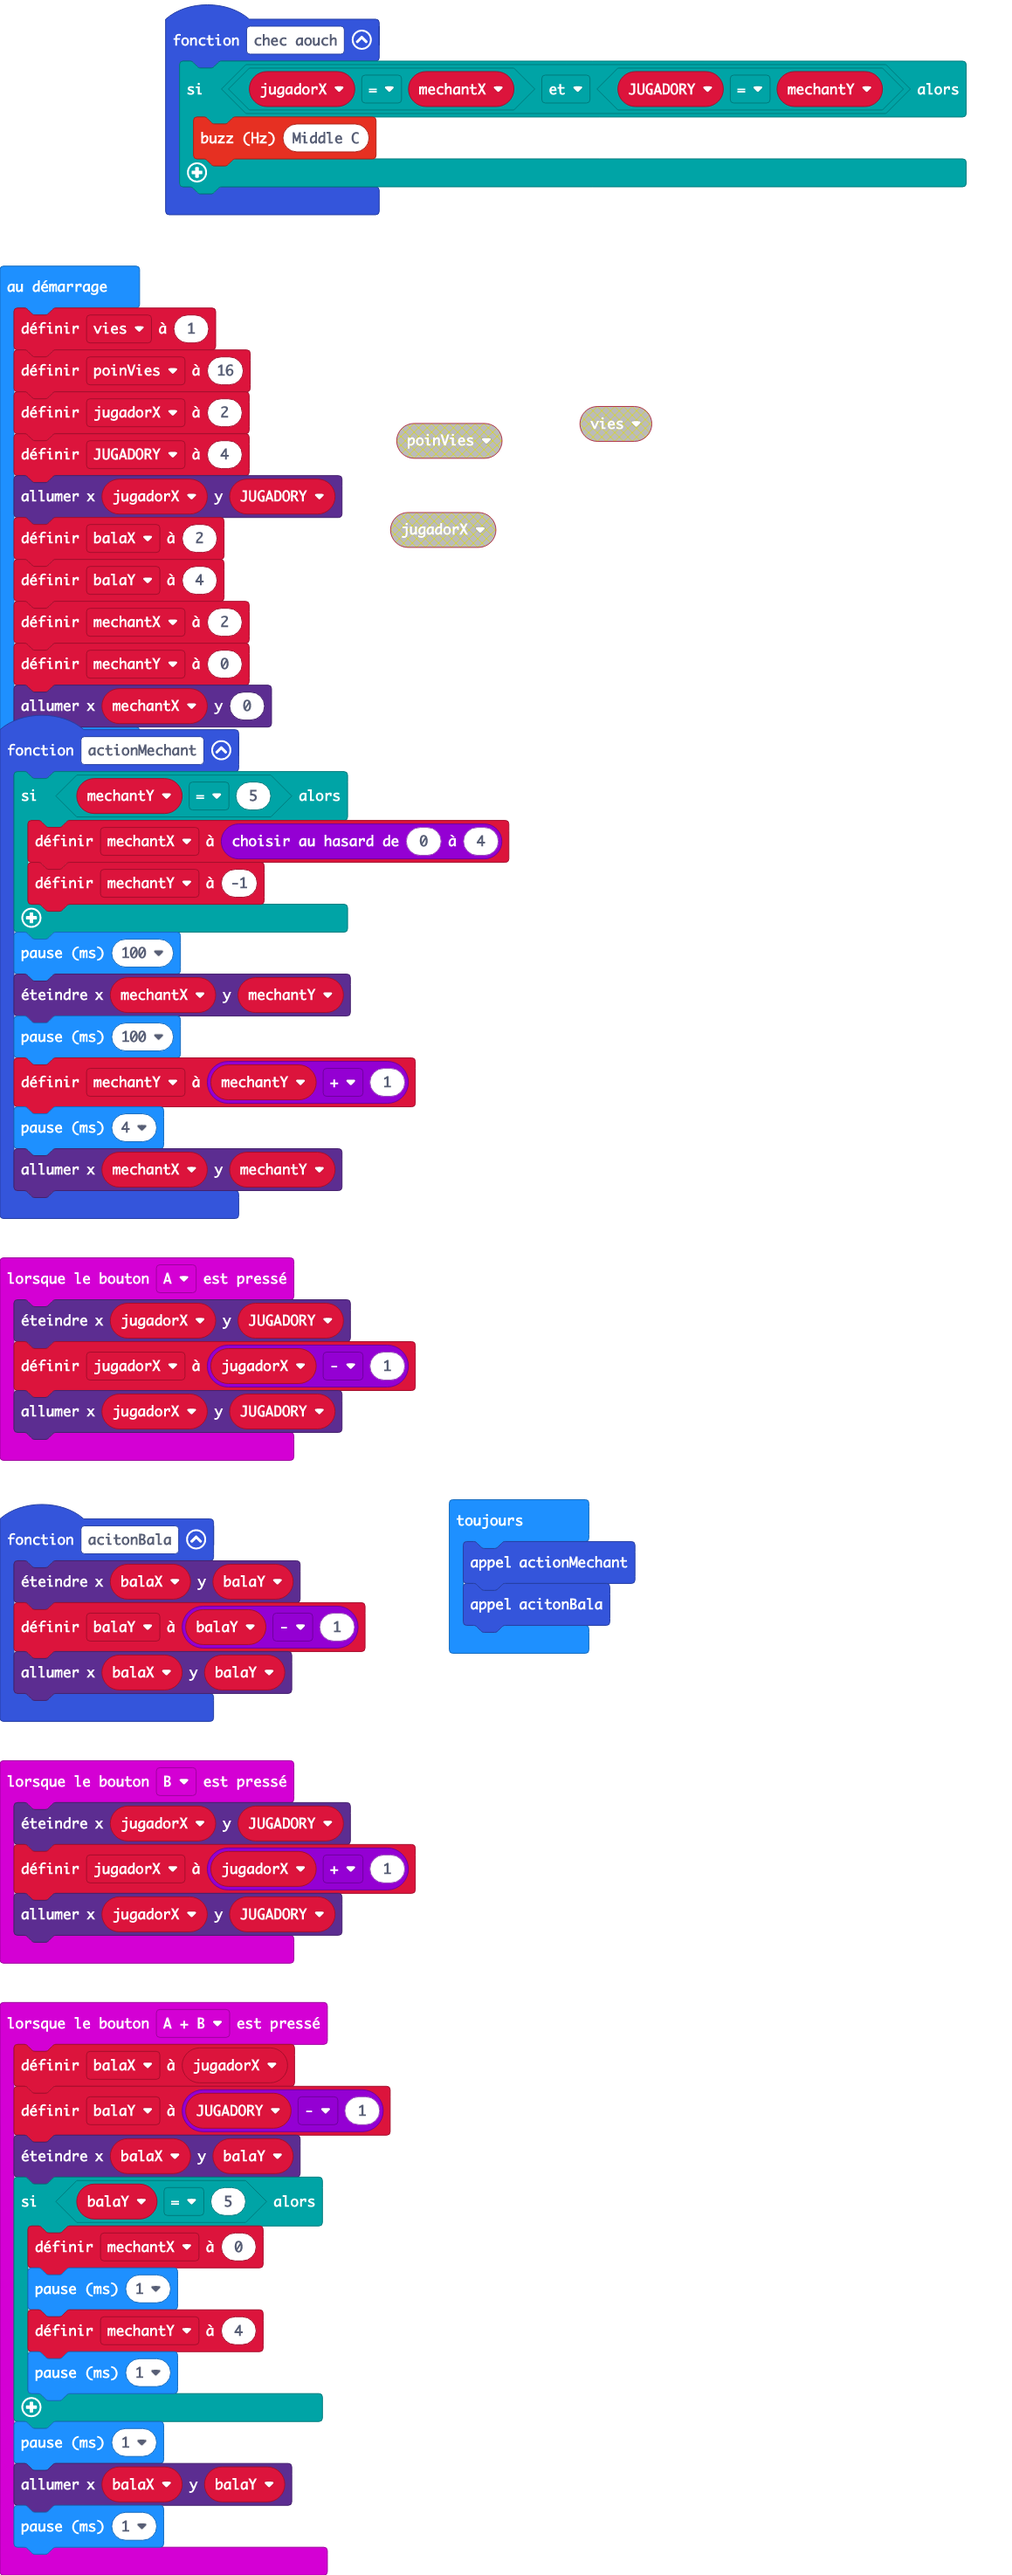
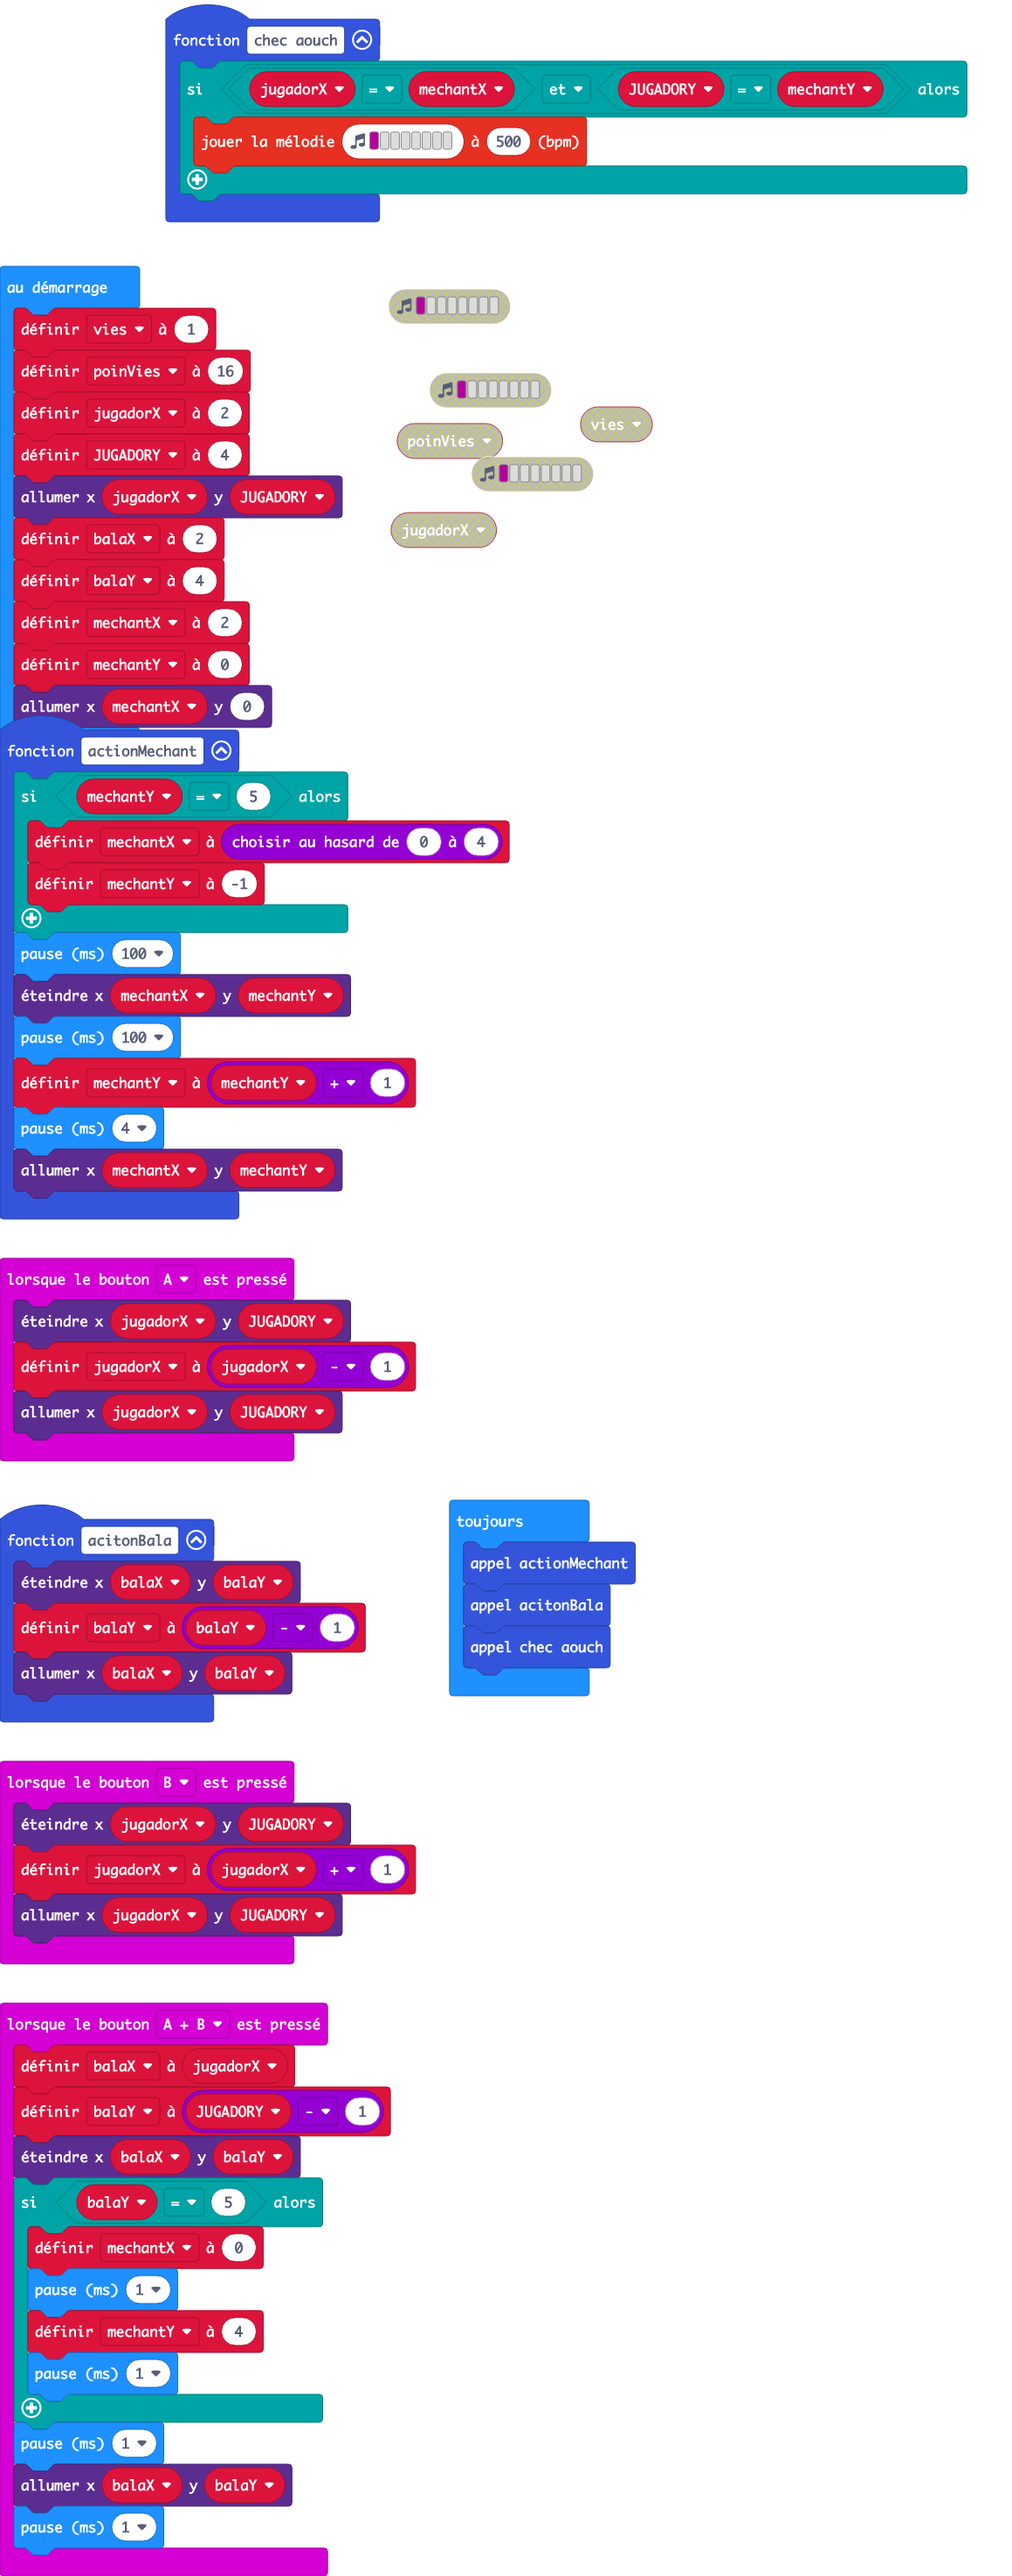
Mise à jour main.blocks, main.ts

diff --git a/main.ts b/main.ts
@@ -41,7 +41,7 @@ input.onButtonPressed(Button.B, function () {
 })
 function chec_aouch () {
     if (jugadorX == mechantX && JUGADORY == mechantY) {
-        music.ringTone(262)
+        music.playMelody("C - - - - - - - ", 500)
     }
 }
 let mechantY = 0
@@ -63,4 +63,5 @@ led.plot(mechantX, 0)
 basic.forever(function () {
     actionMechant()
     acitonBala()
+    chec_aouch()
 })
